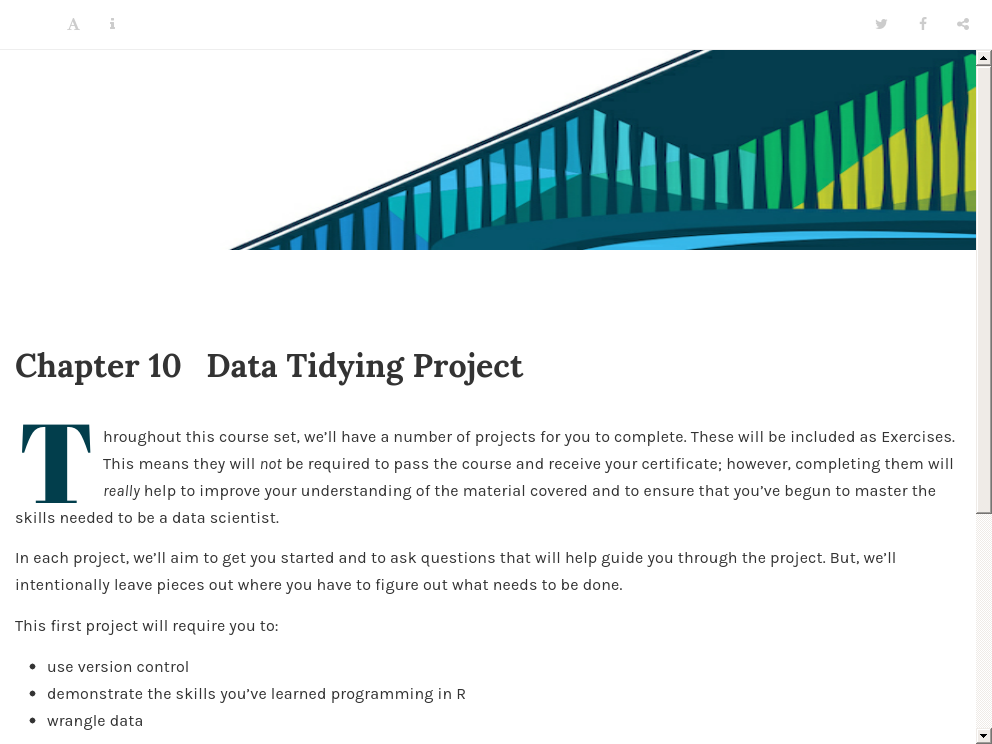
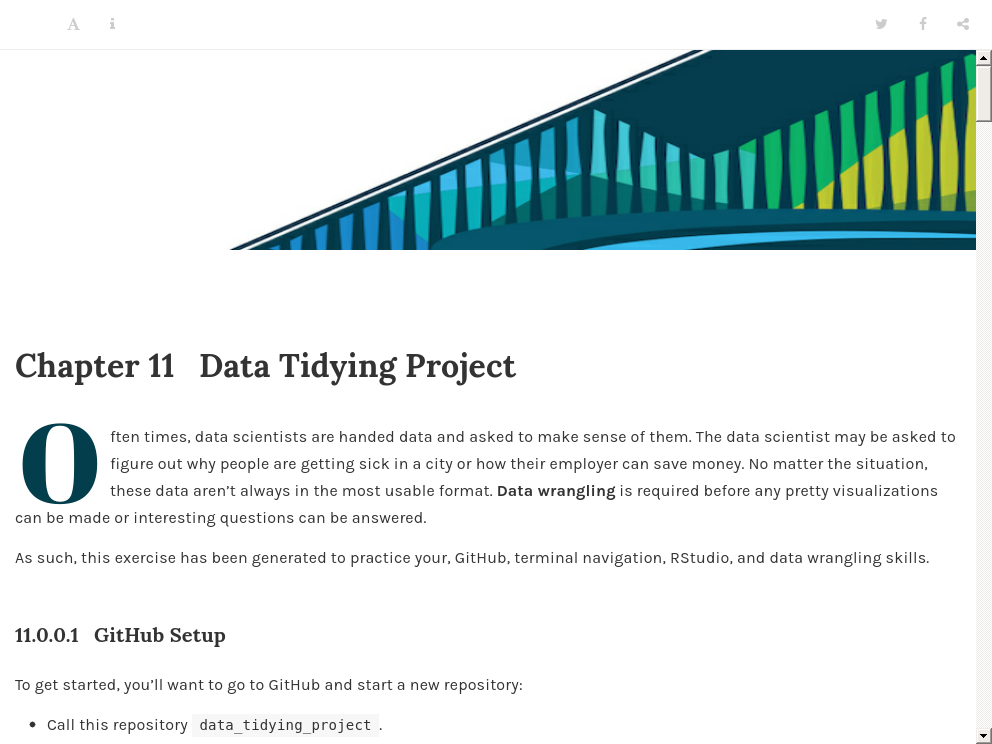
Render Leanpub

diff --git a/manuscript/11-Data-Tidying-Project.md b/manuscript/11-Data-Tidying-Project.md
@@ -1,0 +1,7 @@
+# 11 Data Tidying Project
+ 
+{type: iframe, title:11 Data Tidying Project, width:800, height:600, poster:resources/chapt_screen_images/data-tidying-project-1.png}
+![](https://datatrail-jhu.github.io/06_datacleaning/no_toc/data-tidying-project-1.html)
+ 
+
+ 

diff --git a/manuscript/12-References.md b/manuscript/12-References.md
@@ -1,0 +1,7 @@
+# 12 References
+ 
+{type: iframe, title:12 References, width:800, height:600, poster:resources/chapt_screen_images/references.png}
+![](https://datatrail-jhu.github.io/06_datacleaning/no_toc/references.html)
+ 
+
+ 
